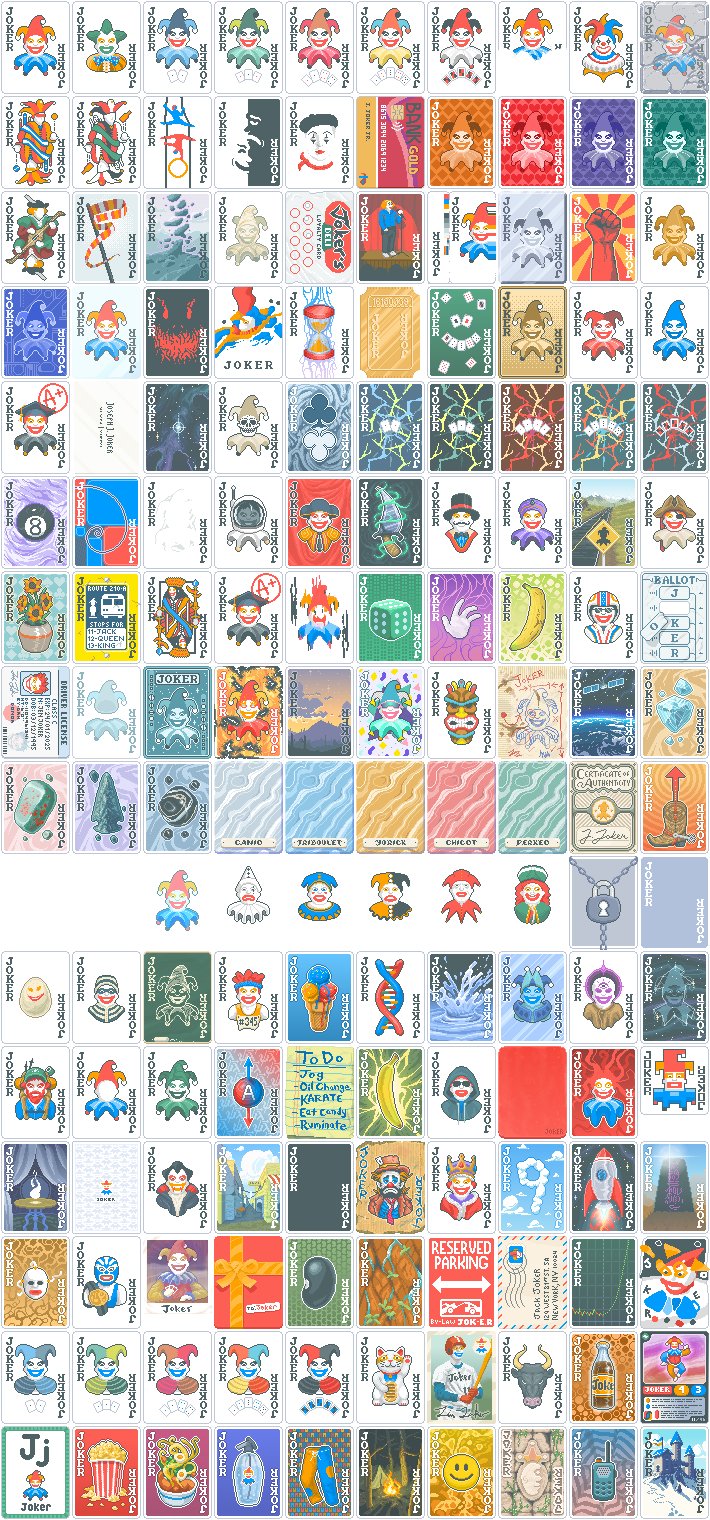
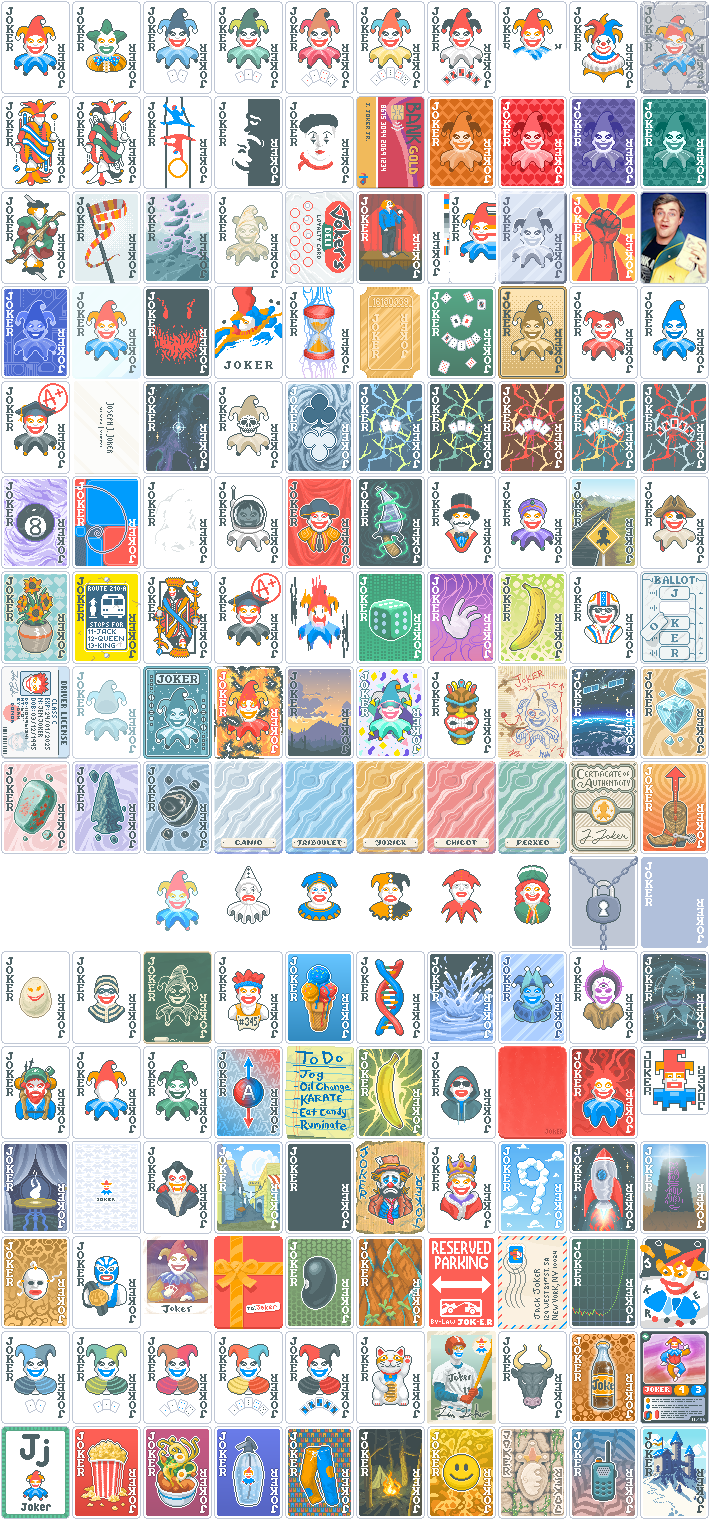
update jokers

Changed region(s): [[0.8986, 0.1237, 1.0, 0.1855]]

diff --git a/README.md b/README.md
@@ -13,8 +13,8 @@ Lots of people worked on this project for simplicity's sake I'll divide this up 
 
 ### Art Credits
 * [EmergentComics](https://emergentcomics.com/) for making the vast majority of the models.
-* Witch_Hunter_ and stjimmy1995 for posing the models
-* [AstrowellTV](https://www.twitch.tv/astrowelltv) for the splash screen
+* Witch_Hunter_ and stjimmy1995 for posing the models and doing translations.
+* [AstrowellTV](https://www.twitch.tv/astrowelltv) for the splash screen and jimbobae joker
 * [Patriversal](https://www.fiverr.com/patriexist) for the tarot cards
 
 ### Mod Credits
